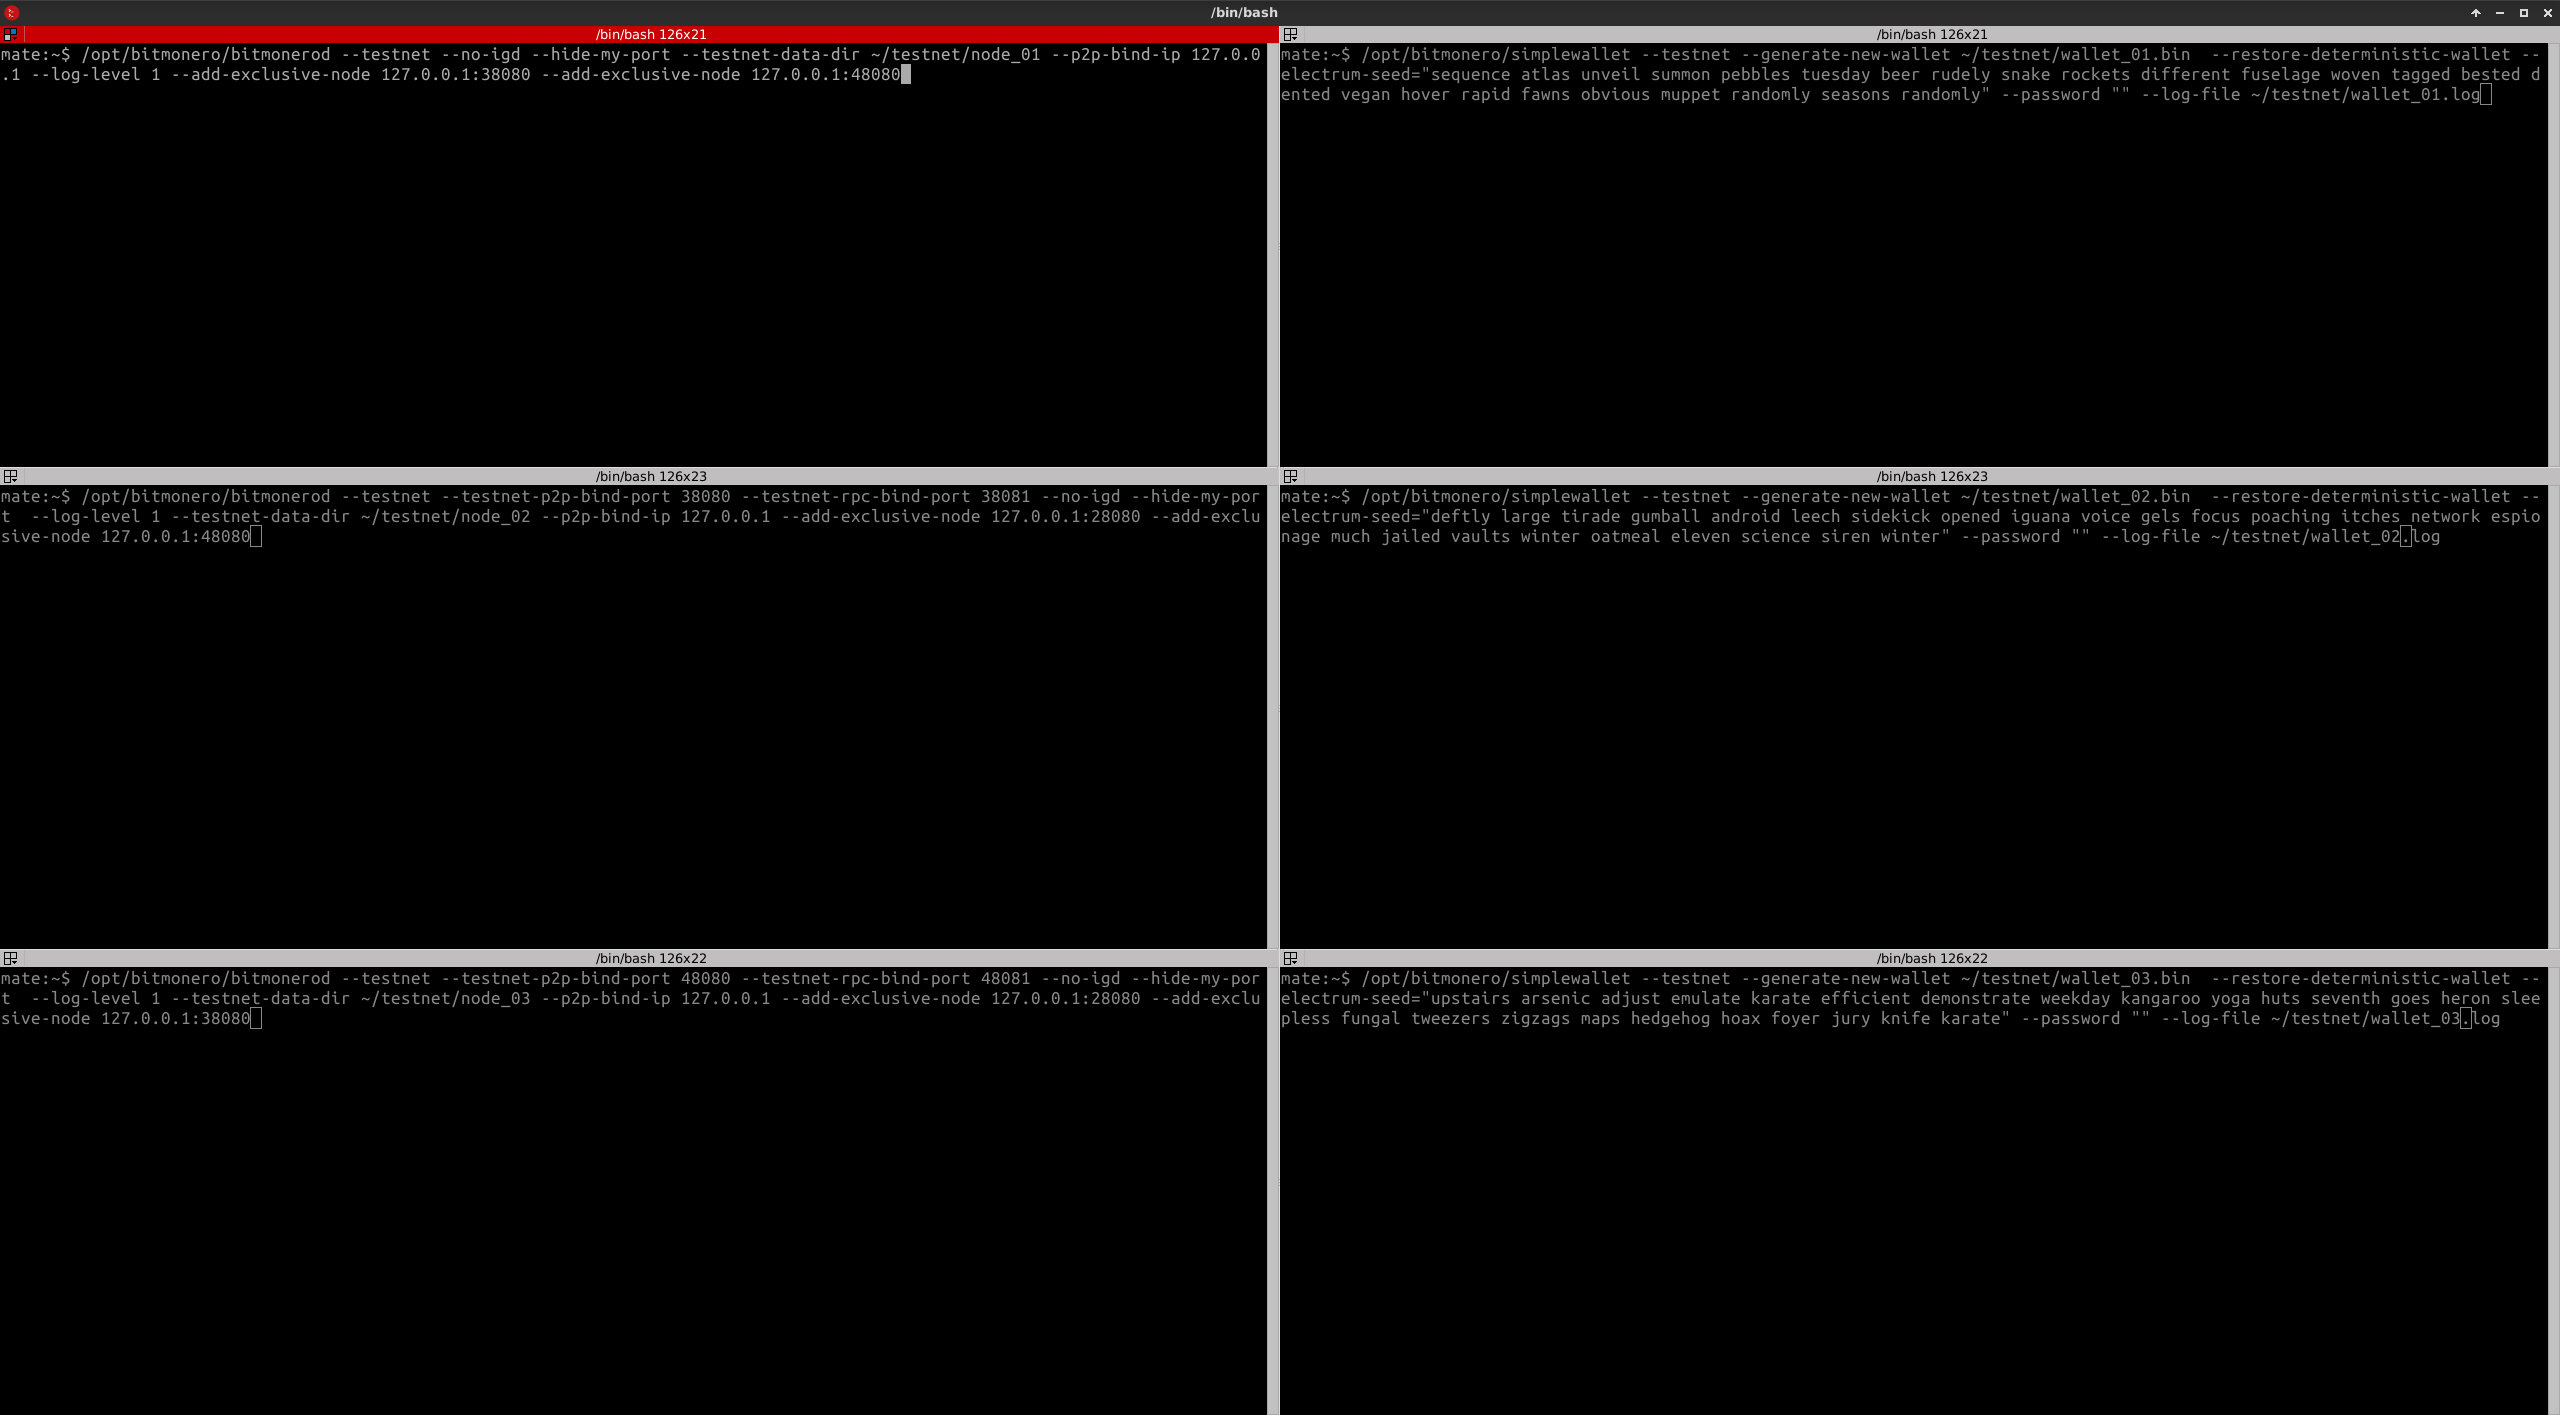
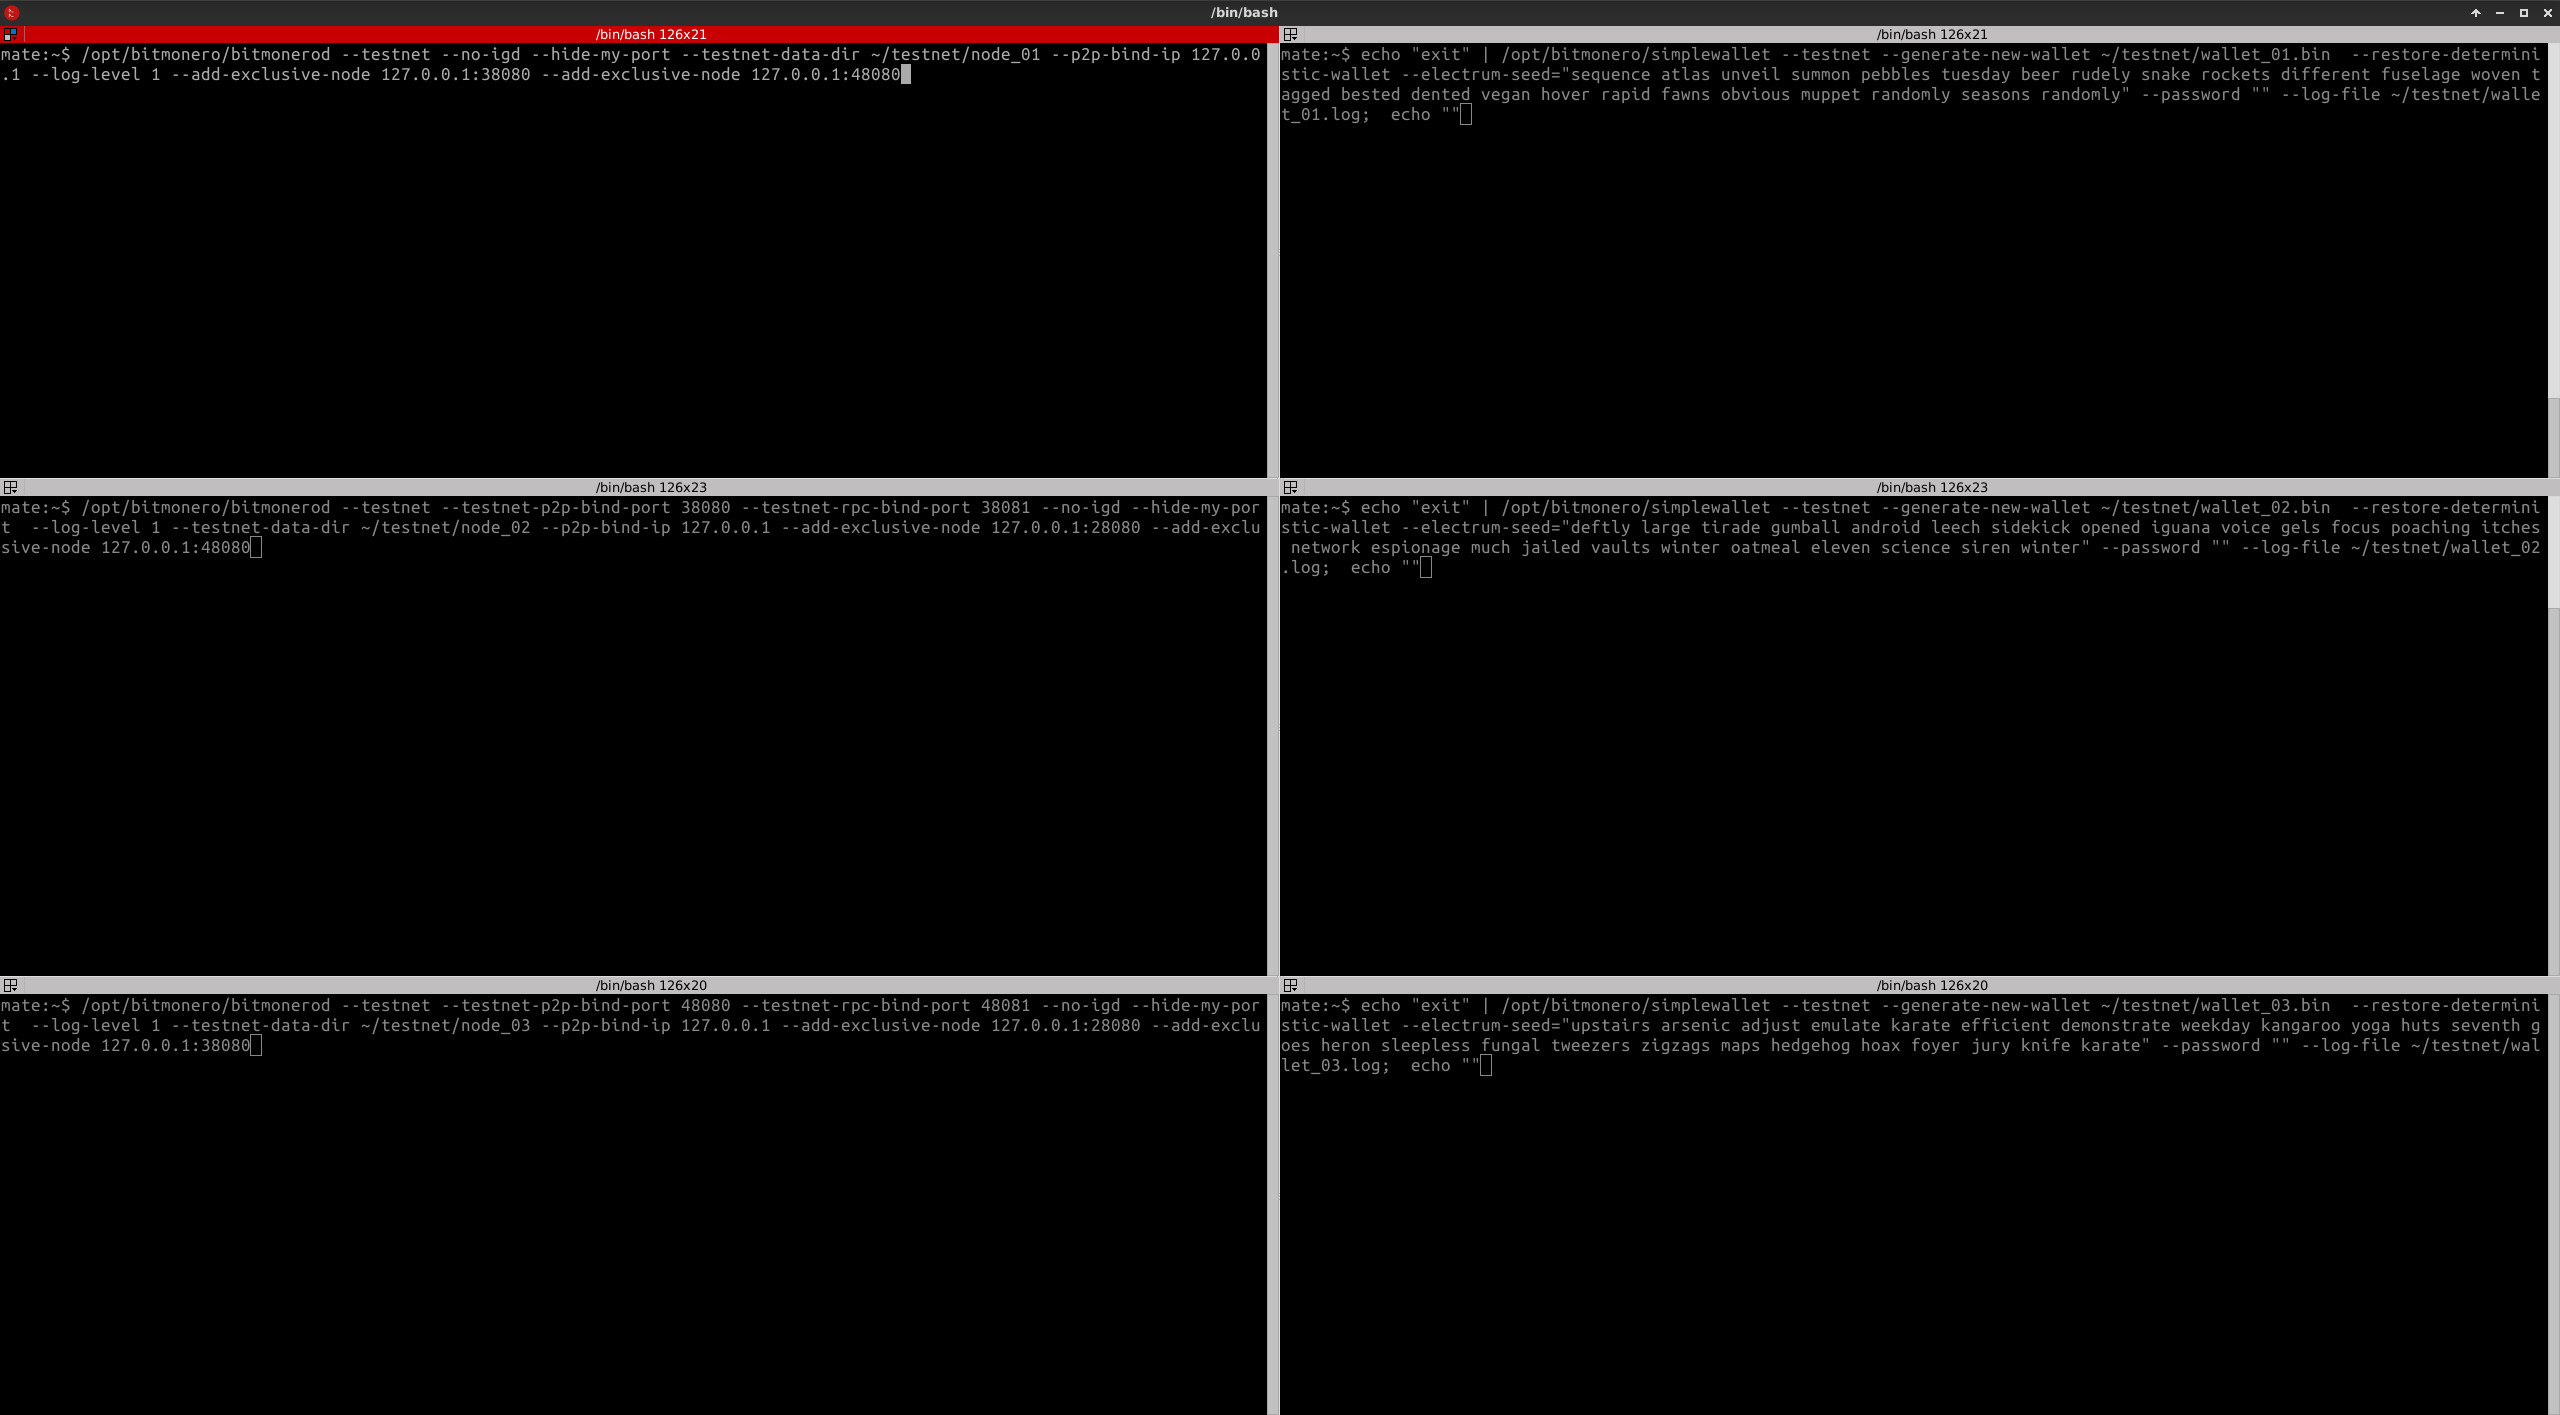
make and remove testnanet folder aliases

Changed region(s): [[0.0, 0.653, 1.0, 0.7463], [0.0, 0.311, 1.0, 0.4353], [0.5, 0.0311, 1.0, 0.2799]]

diff --git a/README.md b/README.md
@@ -64,7 +64,7 @@ The `simplewallet` options are:
 
 **For wallet_02.bin:**
 ```bash
-echo "exit" | |/opt/bitmonero/simplewallet --testnet --generate-new-wallet ~/testnet/wallet_02.bin  --restore-deterministic-wallet --electrum-seed="deftly large tirade gumball android leech sidekick opened iguana voice gels focus poaching itches network espionage much jailed vaults winter oatmeal eleven science siren winter" --password "" --log-file ~/testnet/wallet_02.log;  echo ""
+echo "exit" | /opt/bitmonero/simplewallet --testnet --generate-new-wallet ~/testnet/wallet_02.bin  --restore-deterministic-wallet --electrum-seed="deftly large tirade gumball android leech sidekick opened iguana voice gels focus poaching itches network espionage much jailed vaults winter oatmeal eleven science siren winter" --password "" --log-file ~/testnet/wallet_02.log;  echo ""
 ```
 
 Resulting address:
@@ -268,6 +268,10 @@ alias teststartwallet2='/opt/bitmonero/simplewallet --testnet --daemon-port 3808
 alias teststartwallet3='/opt/bitmonero/simplewallet --testnet --daemon-port 48081 --trusted-daemon --wallet-file ~/testnet/wallet_03.bin --password "" --log-file ~/testnet/wallet_03.log'
 
 alias teststartwallet4='/opt/bitmonero/simplewallet --testnet --daemon-port 48081 --wallet-file ~/testnet/wallet_04.bin --password "" --log-file ~/testnet/wallet_04.log'
+
+alias testremove="rm -rvf ~/testnet"
+
+alias testremoveandmkdir="rm -rvf ~/testnet; mkdir ~/testnet"
 ```
 
 ## Commands' aliases (with rlwrap)
@@ -305,6 +309,10 @@ alias teststartwallet2='rlwrap -f ~/monerocommands_simplewallet.txt /opt/bitmone
 alias teststartwallet3='rlwrap -f ~/monerocommands_simplewallet.txt /opt/bitmonero/simplewallet --testnet --daemon-port 48081 --wallet-file ~/testnet/wallet_03.bin --password "" --log-file ~/testnet/wallet_03.log'
 
 alias teststartwallet4='rlwrap -f ~/monerocommands_simplewallet.txt /opt/bitmonero/simplewallet --testnet --daemon-port 48081 --wallet-file ~/testnet/wallet_04.bin --password "" --log-file ~/testnet/wallet_04.log'
+
+alias testremove="rm -rvf ~/testnet"
+
+alias testremoveandmkdir="rm -rvf ~/testnet; mkdir ~/testnet"
 ```
 
 The files `monerocommands_bitmonerod.txt` and `monerocommands_simplewallet.txt` should be downloaded
